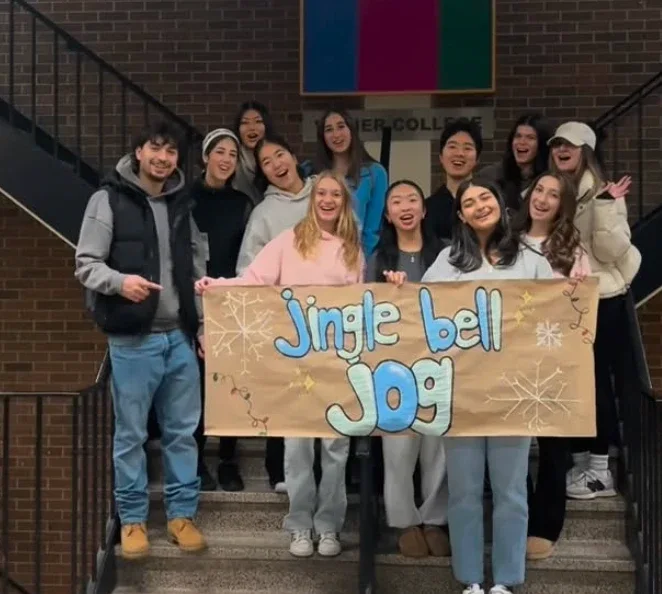
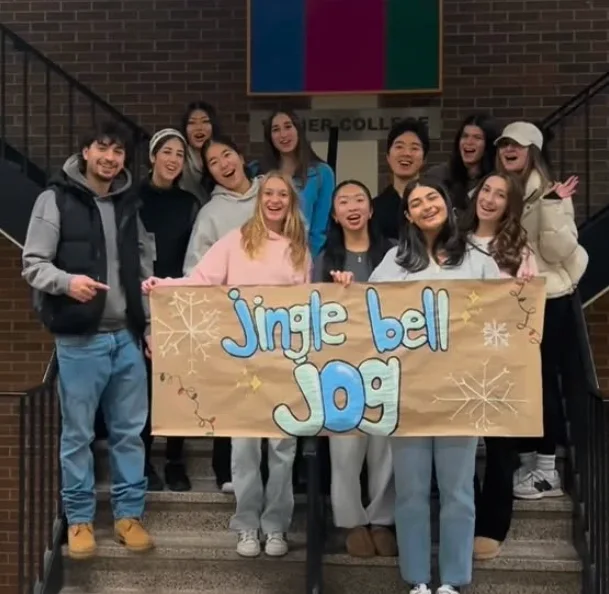
Text updates: Life heading size, remove X link, Loan Review, Research link, Writing intro, Chapter VP, Sport Council bullets, HopOn; centre Bags of Promise photo
Claude-Session: https://claude.ai/code/session_01CcmQUaANpEtdbjMUUihzdQ

diff --git a/index.html b/index.html
@@ -114,6 +114,7 @@
   .entry .meta { font-family: var(--mono); font-size: 12px; letter-spacing: 0.08em; text-transform: uppercase; opacity: 0.75; display: flex; justify-content: space-between; gap: 16px; margin-bottom: 6px; }
   .entry p { margin-top: 6px; }
   .entry a { font-family: var(--mono); font-size: 13px; text-transform: uppercase; letter-spacing: 0.08em; }
+  .entry p > a { font: inherit; text-transform: none; letter-spacing: normal; text-decoration: underline; text-underline-offset: 2px; } /* a link inside a sentence */
 
   /* ---------- Final card: soft light box with contact links ---------- */
   .card .col { background: rgba(244, 241, 232, 0.78); padding: 36px 40px; border-radius: 8px; text-shadow: none; }
@@ -139,7 +140,7 @@
   .panels { display: grid; }
   .panel { grid-area: 1 / 1; }
   .panel[hidden] { display: block; visibility: hidden; }
-  .end h2 { font-size: clamp(30px, 4vw, 44px); margin-bottom: 24px; }
+  .end h2 { margin-bottom: 24px; } /* same size as "About me" */
   /* Toggle buttons: Writing / Projects / Sports / Research */
   .tabs { display: flex; flex-wrap: wrap; gap: 8px; }
   .tab {
@@ -327,7 +328,7 @@
         <div class="panels">
         <div class="panel" id="panel-projects" role="tabpanel" aria-labelledby="tab-projects">
           <ul class="entries">
-            <li class="entry"><p><b>Loan Review Agent:</b> Built an AI agent in Python for the Asset Management team at ACM Advisors. It writes loan performance commentary across a $5.5B AUM commercial real estate portfolio</p></li>
+            <li class="entry"><p><b>Loan Review Agent:</b> Built an AI agent in Python for the Asset Management team at ACM Advisors. Designed to write loan performance commentary across a $5.5B AUM commercial real estate portfolio.</p></li>
             <li class="entry"><p><b>The AI Money Web:</b> An interactive map of the money flowing between the companies building AI: chip deals, equity stakes, cloud contracts and debt.</p><div class="entry-links"><a href="https://tessa-wang.github.io/ai-debt/" target="_blank" rel="noopener">View project ↗</a></div></li>
             <li class="entry"><p><b>Word of the Day:</b> An app for my friends, because I like asking people what one word describes their day. Everyone posts one word a day and sees each other's.</p><div class="entry-links"><a href="https://wotd-rho.vercel.app" target="_blank" rel="noopener">View project ↗</a></div></li>
           </ul>
@@ -363,12 +364,12 @@
         </div>
         <div class="panel" id="panel-research" role="tabpanel" aria-labelledby="tab-research" hidden>
           <ul class="entries">
-            <li class="entry"><p>I work with Professor Andrew Maxwell at York's Lassonde School of Engineering on research around technology, innovation, and commercialization, published through the Innovation Doctor Substack.</p><p>I'm also helping turn an Innovation &amp; Creativity course into an online format for an AI learning platform.</p><a href="https://substack.com/@innovationdoctor" target="_blank" rel="noopener">Innovation Doctor Substack ↗</a></li>
+            <li class="entry"><p>I work with Professor Andrew Maxwell at York's Lassonde School of Engineering on research around technology, innovation, and commercialization, published through the <a href="https://substack.com/@innovationdoctor" target="_blank" rel="noopener">Innovation Doctor Substack</a>.</p><p>I'm also helping turn an Innovation &amp; Creativity course into an online format for an AI learning platform.</p><a href="https://substack.com/@innovationdoctor" target="_blank" rel="noopener">Innovation Doctor Substack ↗</a></li>
           </ul>
         </div>
         <div class="panel" id="panel-writing" role="tabpanel" aria-labelledby="tab-writing" hidden>
           <ul class="entries">
-            <li class="entry"><p>I enjoy learning and writing about business, technology, psychology, and other topics.</p><a href="https://substack.com/@twang11" target="_blank" rel="noopener">Tessa's Substack ↗</a></li>
+            <li class="entry"><p>I enjoy writing about business, technology, psychology, and other topics.</p><a href="https://substack.com/@twang11" target="_blank" rel="noopener">Tessa's Substack ↗</a></li>
           </ul>
           <!-- ARTICLES: one block per article. Put the article's address in href="..." -->
           <p class="xp-group">Articles</p>
@@ -401,7 +402,7 @@
             </li>
             <li class="entry cm">
               <div class="cm-main">
-                <p class="xp-role">Vice President</p>
+                <p class="xp-role">Chapter Vice President</p>
                 <p class="xp-org">Bags of Promise at York University</p>
                 <p class="xp-desc">Student-led charity focused on supporting youth experiencing homelessness</p>
                 <a href="https://www.bagsofpromise.org/" target="_blank" rel="noopener">Bags of Promise ↗</a>
@@ -415,6 +416,10 @@
               <div class="cm-main">
                 <p class="xp-role">Internal Events Coordinator &amp; Mentor</p>
                 <p class="xp-org">Sport Council at York University</p>
+                <ul class="bullets">
+                  <li>Coordinate internal York and Varsity Athletics events for 450+ student-athletes</li>
+                  <li>Mentor first-year student-athletes through weekly meetings</li>
+                </ul>
               </div>
               <div class="cm-side">
                 <p class="xp-when">Mar 2025 – Present</p>
@@ -429,7 +434,7 @@
               <div class="cm-main">
                 <p class="xp-role">HopOn North Vancouver</p>
                 <p class="xp-org">with Cycling BC</p>
-                <p class="xp-desc">Co-launched an after-school mountain biking program for girls, focused on confidence, resilience, and being a good teammate.</p>
+                <p class="xp-desc">Co-launched a biking program for girls, focused on confidence, resilience, and teamwork.</p>
                 <div class="entry-links"><a href="https://hopon.cyclingbc.net/2023/10/31/hopon-north-van-recap-2023/" target="_blank" rel="noopener">Read the recap ↗</a></div>
               </div>
               <div class="cm-side">
@@ -474,7 +479,6 @@
           <span class="socials-label">Reach out</span>
           <a href="mailto:tessa@wangs.net">Email</a>
           <a href="https://www.linkedin.com/in/tessa-wang/" target="_blank" rel="noopener">LinkedIn</a>
-          <a href="https://x.com/YOUR-HANDLE" target="_blank" rel="noopener">X</a>
         </div>
         <div class="socials">
           <span class="socials-label">Other</span>
